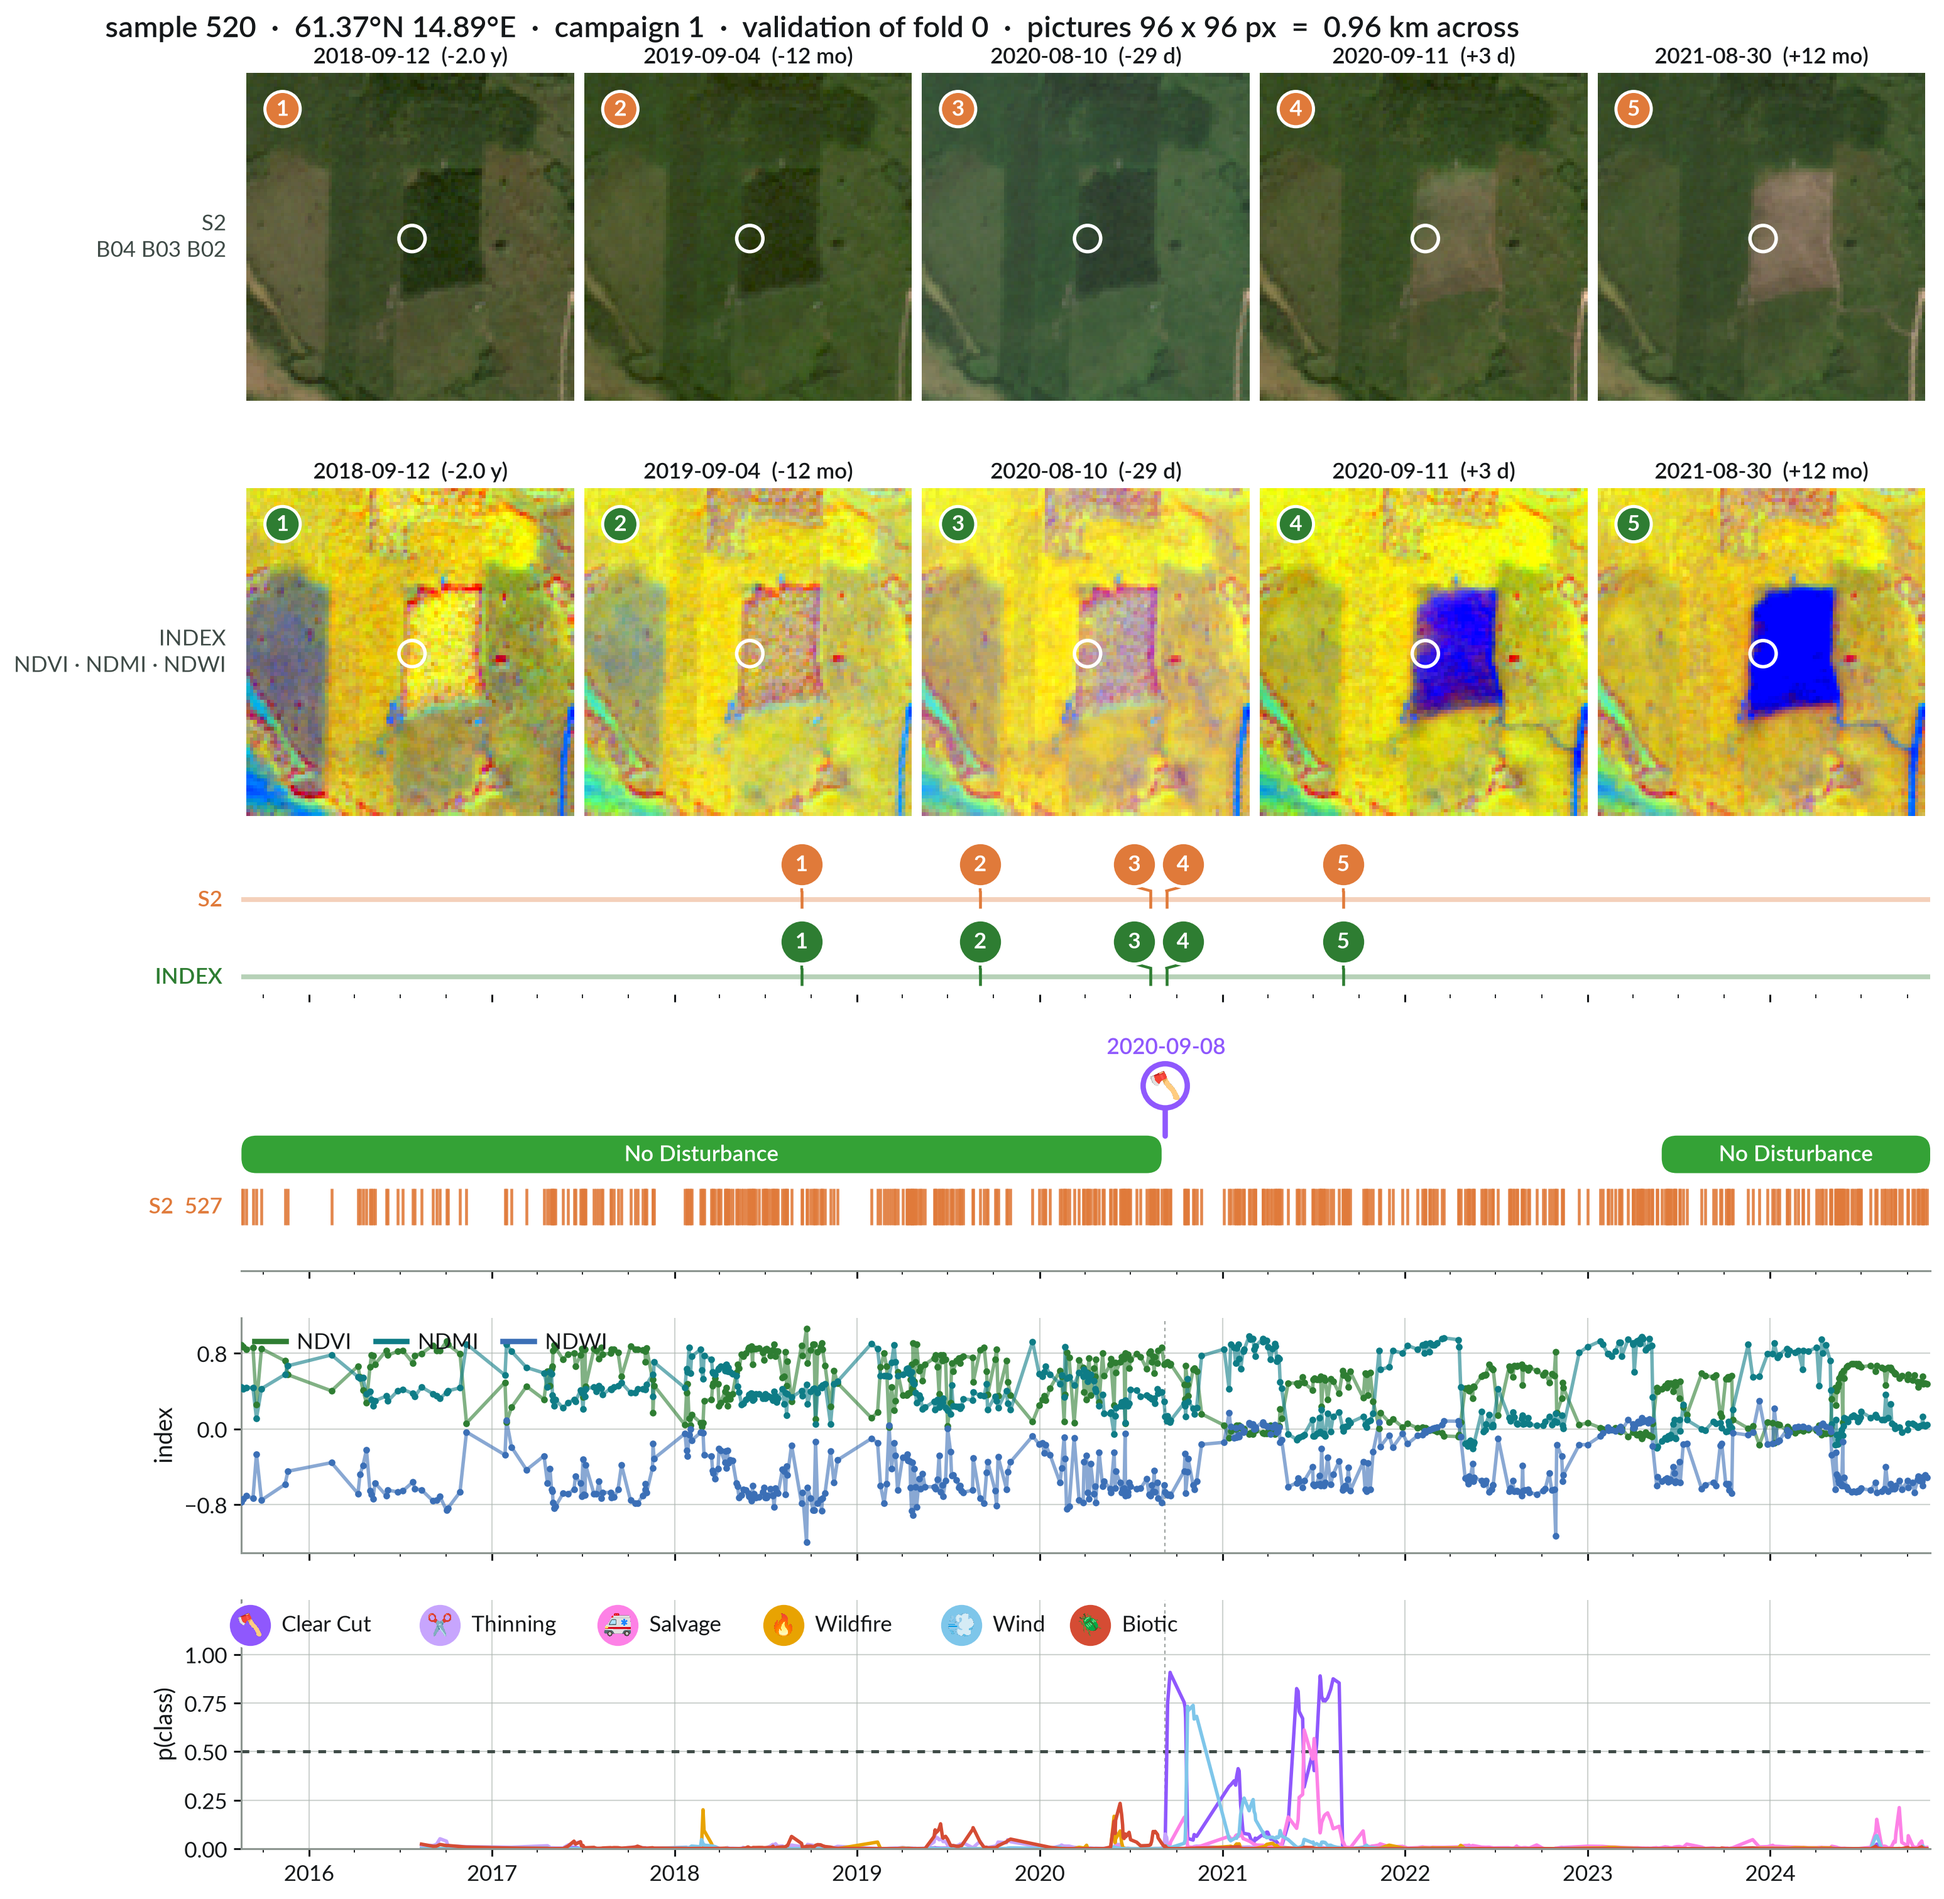
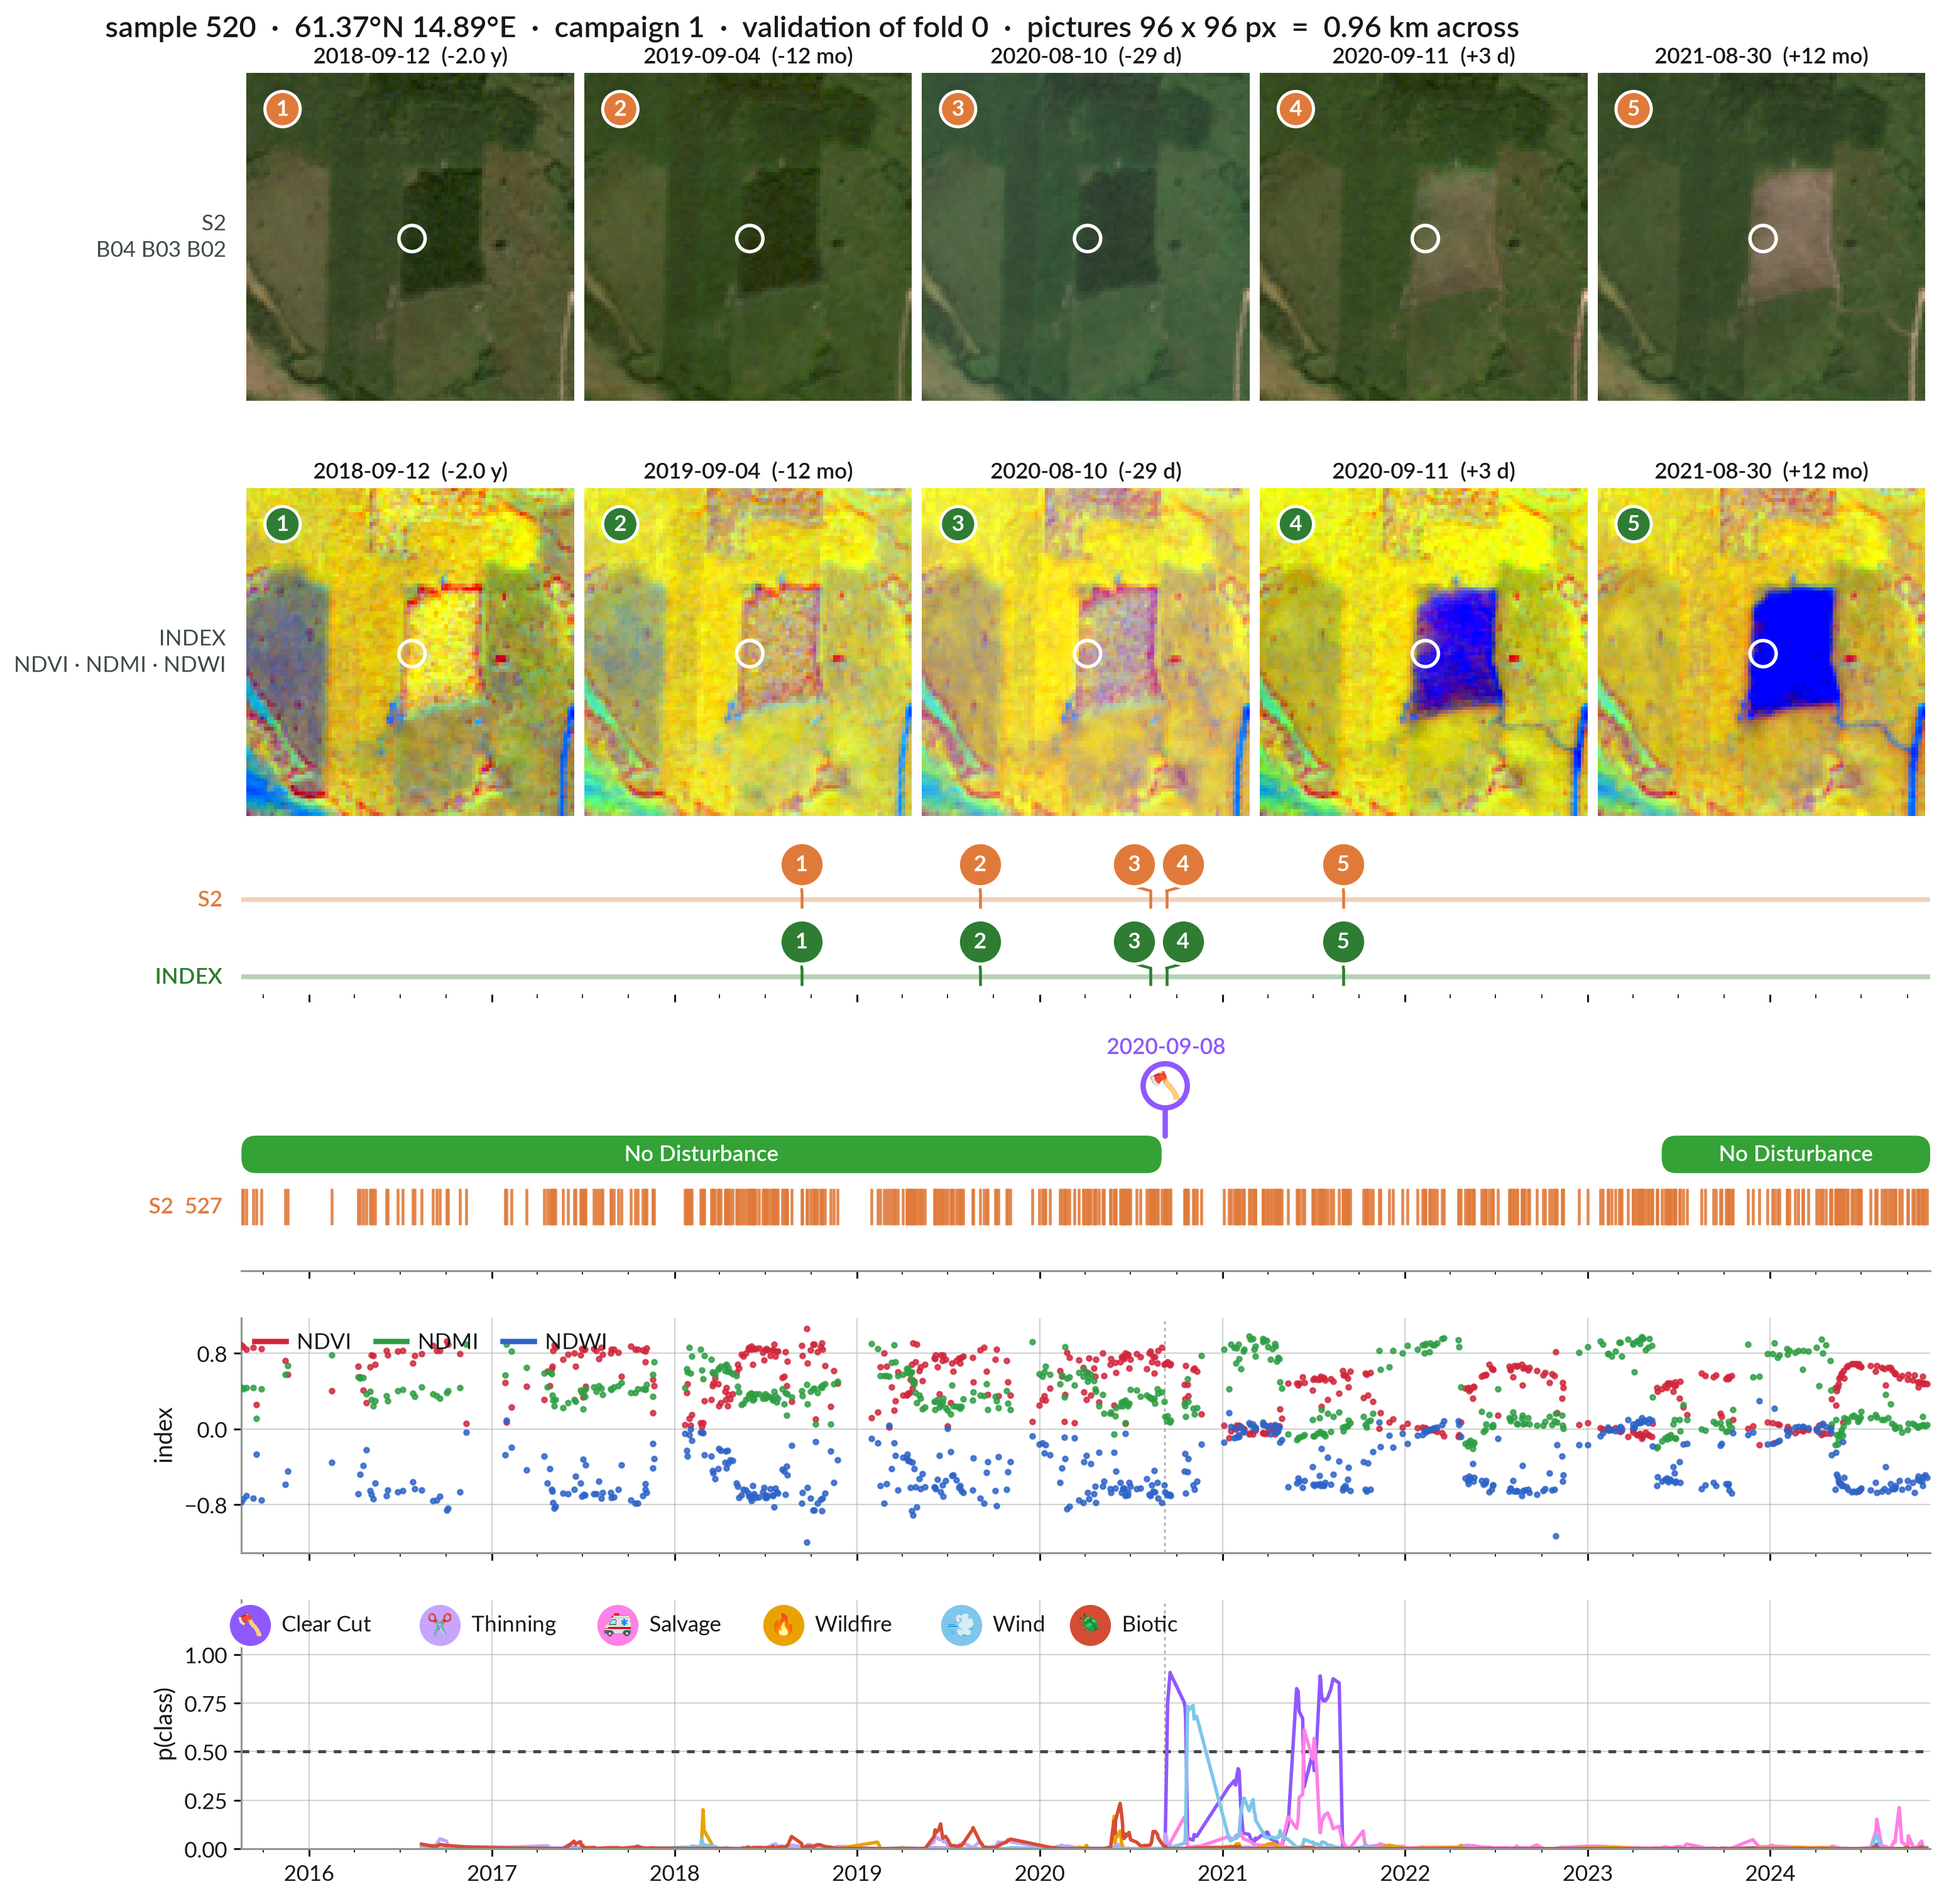
update docs example clear cut

Changed region(s): [[0.1241, 0.6841, 0.9929, 0.8085], [0.7136, 0.6841, 0.7447, 0.7152], [0.2793, 0.7774, 0.3103, 0.8085]]

diff --git a/forest_disturbance/viz/timeline.py b/forest_disturbance/viz/timeline.py
@@ -32,6 +32,11 @@ from forest_disturbance.data.constants import S1_BANDS
 from forest_disturbance.viz import icons, raster, style
 from forest_disturbance.viz.sample import Sample
 
+#: Colours of the three indices of an "index" strip, in its channel order (red, green, blue).
+#: A series panel showing exactly those indices uses them, so each curve has the colour its
+#: index takes in the pictures above it.
+INDEX_RGB_COLORS = ("#D1263B", "#2E9E44", "#2D63C8")
+
 #: Which strips can be drawn, and their accent colour.
 STRIP_COLORS = {
     "s2": style.S2_COLOR,
@@ -88,7 +93,8 @@ def plot_sample(
         crop: Side of the pictures in 10 m pixels (None = the full 252 px patch).
         patch_dates: Force the dates of the pictures instead of choosing them.
         s2_bands: The three bands making the Sentinel-2 colour image.
-        index_names: The three indices making the "index" strip.
+        index_names: The three indices making the "index" strip (red, green, blue). With
+            that strip shown, a series panel of exactly these indices takes the same colours.
         features: (dates, array) of your own features: (time, channel) for the pixel
             series, or (time, channel, height, width) to also allow a "features" strip.
             More than three channels are reduced to three by PCA.
@@ -149,7 +155,11 @@ def plot_sample(
                 height_points=annotation_height(len(events)) * 72,
             )
         elif kind.startswith("series:"):
-            _draw_series(ax, sample, _names(kind.split(":", 1)[1]), marks=series_marks)
+            names = _names(kind.split(":", 1)[1])
+            colors = None
+            if "index" in patches and set(names) == set(index_names):
+                colors = dict(zip(index_names, INDEX_RGB_COLORS, strict=True))
+            _draw_series(ax, sample, names, marks=series_marks, colors=colors)
         elif kind == "features":
             _draw_feature_series(ax, features, feature_label)
         elif kind == "targets":
@@ -599,7 +609,13 @@ def _benchmark_name(code: int) -> str | None:
     return mapping.class_names[mapping.no_disturbance_id]
 
 
-def _draw_series(ax: plt.Axes, sample: Sample, names: tuple[str, ...], marks: str = "auto") -> None:
+def _draw_series(
+    ax: plt.Axes,
+    sample: Sample,
+    names: tuple[str, ...],
+    marks: str = "auto",
+    colors: dict[str, str] | None = None,
+) -> None:
     """One panel with one or several 1-D series of the annotated pixel.
 
     This is the only series drawing code: a Sentinel-2 band, a spectral index, a
@@ -610,13 +626,14 @@ def _draw_series(ax: plt.Axes, sample: Sample, names: tuple[str, ...], marks: st
     Args:
         marks: "auto" draws dots and a line, and drops the line when the series has
             more than 600 points (radar); "dots" and "line" force one of the two.
+        colors: A colour per name, instead of the default ones.
     """
     units = {
         ("dB" if name in S1_BANDS else "index" if name in raster.INDICES else "reflectance")
         for name in names
     }
     normalize = len(units) > 1
-    colors = _series_colors(names)
+    colors = colors or _series_colors(names)
     for name in names:
         dates, values = sample.series(name)
         if not len(dates):
